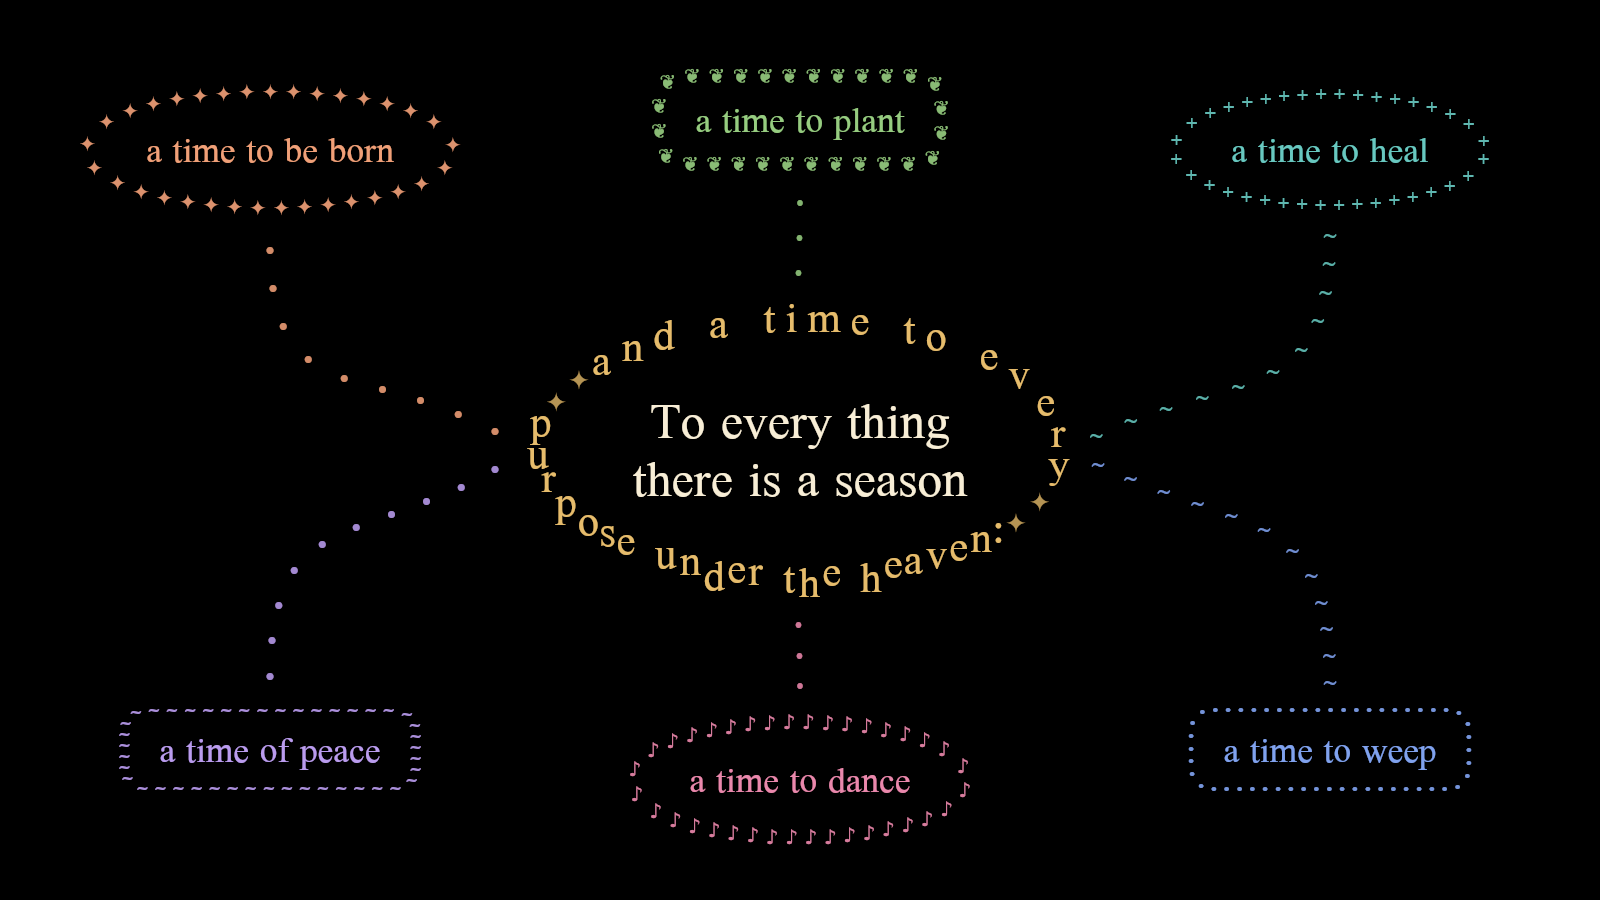
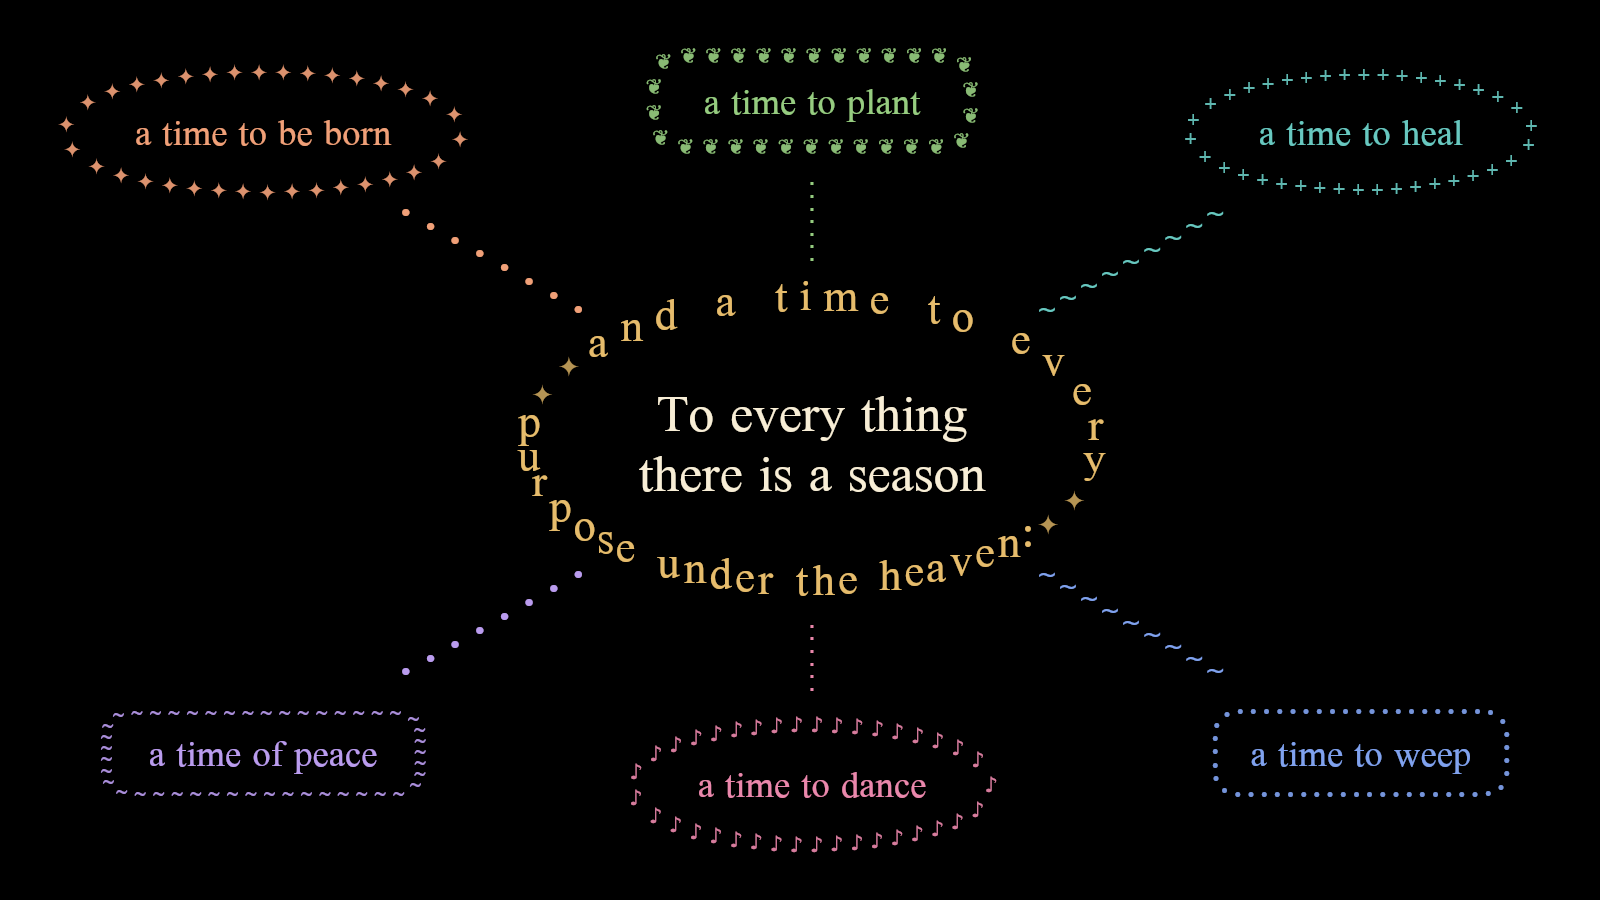
README: demo images rendered from the committed demo maps
The Ecclesiastes, Blake and frames images are now V1's committed demo
maps, rendered with the band-curve placement signed off on #314: lower
halves sit on their baseline, and junctions between lines are
continuous. They are byte-identical to what the epic tip renders.

The Dickinson image stays as it was. It is one frame of an animation,
and the demo maps cannot spell per-glyph overrides yet. The
half-spread Blake image is removed: it was drawn by hand before the
baseline fix, and no committed map renders it. The captions now say
what the images show: straight connectors in Ecclesiastes, and a
curved line, not a half-opacity connector, in the frames image.

Claude-Session: https://claude.ai/code/session_017pLhzvfHKkgTCvLcR2to94

diff --git a/README.md b/README.md
@@ -17,38 +17,33 @@ art makes them. A frame's text takes the shape of its node and still
 reads forward: the first line runs over the top and down the right
 side, the second down the left side and along the bottom, and a few
 ornaments mark where one line ends and the next begins. Each image is
-drawn by the new glyph-run renderer in a single draw call. They are
-rendered offscreen from the V1 work in progress
+drawn by the new glyph-run renderer in a single draw call, rendered
+offscreen from the V1 work in progress
 ([#230](https://github.com/Svendsys/mandala/issues/230)); the app
-draws this way once V1 lands, and these images will be replaced by
-renders of committed demo maps as that work is polished.
+draws this way once V1 lands. The Ecclesiastes, Blake and frames images
+are renders of V1's committed demo maps. The Dickinson image is one
+frame of an animation, which those maps cannot spell yet, so it is
+still drawn by hand.
 
 ![Ecclesiastes 3 as a mind map: "To every thing there is a season" at the center, framed by "and a time to every purpose under the heaven", with six child nodes joined by glyph connectors](docs/images/demo-ecclesiastes.png)
 
 *Ecclesiastes 3:1–8 (King James Version) as a mind map: each node in a
-frame of text or ornaments, joined by glyph connectors that meet each
-node at the middle of a side.*
+frame of text or ornaments, joined by straight glyph connectors.*
 
 ![William Blake's Auguries of Innocence following an ellipse, with Psalm 19:1 on an inner ring](docs/images/demo-blake.png)
 
 *William Blake, "Auguries of Innocence", following the whole outline of
 an ellipse, with Psalm 19:1 (King James Version) on an inner ring.*
 
-![The same Blake frames with their text spread halfway, ornaments closing the rest](docs/images/demo-blake-half.png)
-
-*How far the text spreads is a setting: here each line spreads halfway
-between its natural width and its whole half, and ornaments close the
-rest.*
-
 ![Emily Dickinson's "Hope" is the thing with feathers, the letters of "feathers" drifting up and fading](docs/images/demo-dickinson.png)
 
 *Emily Dickinson, "'Hope' is the thing with feathers": one frame of an
 animation, with each glyph offset, scaled and faded on its own.*
 
-![Text around a rounded rectangle and an ellipse, joined by a connector, with emoji markers at full and half opacity](docs/images/demo-frames.png)
+![Text around a rounded rectangle and an ellipse, joined by a curved line, with emoji markers at full and half opacity](docs/images/demo-frames.png)
 
-*Text around a rounded rectangle and an ellipse, a curved connector at
-half opacity, and emoji at full and half opacity.*
+*Text around a rounded rectangle and an ellipse, joined by a curved
+line, with emoji at full and half opacity.*
 
 ## What..?
 
